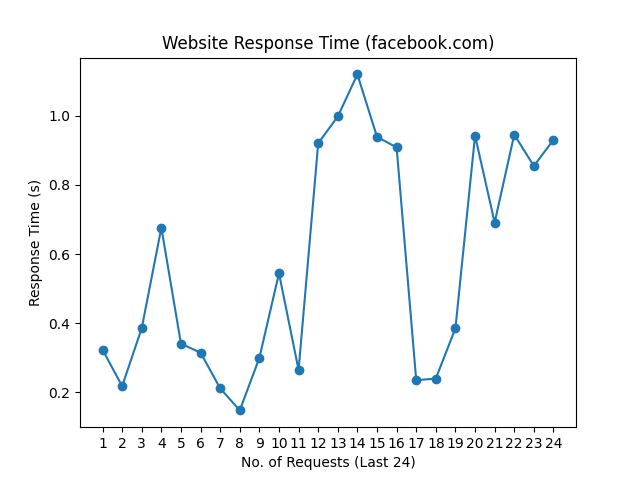
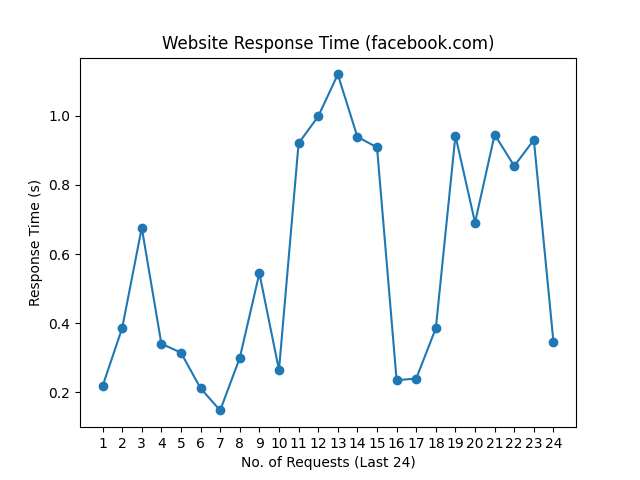
update README.md, history and graph

Changed region(s): [[0.1562, 0.125, 0.875, 0.875], [0.8438, 0.4375, 0.875, 0.7188]]

diff --git a/README.md b/README.md
@@ -1,10 +1,10 @@
 # Web Monitoring
 
-Last Checked: 20/03/2024 08:59
+Last Checked: 21/03/2024 09:01
 
 | Website | Response Time (s) | Status | Avg Uptime (%) |
 |---------|-------------------|--------|----------------|
 | www.thiswebsiteisdown.net | 0 <br> <img src="graph/thiswebsiteisdown.net.png" alt="Graph" width="200" height="200">  | ❌ Down | 0.00 |
-| www.netflix.com | 1.090170 <br> <img src="graph/netflix.com.png" alt="Graph" width="200" height="200">  | ✅ Up | 100.00 |
-| www.google.com | 0.104198 <br> <img src="graph/google.com.png" alt="Graph" width="200" height="200">  | ✅ Up | 100.00 |
-| www.facebook.com | 0.930345 <br> <img src="graph/facebook.com.png" alt="Graph" width="200" height="200">  | ✅ Up | 100.00 |
+| www.netflix.com | 0.326592 <br> <img src="graph/netflix.com.png" alt="Graph" width="200" height="200">  | ✅ Up | 100.00 |
+| www.google.com | 0.064468 <br> <img src="graph/google.com.png" alt="Graph" width="200" height="200">  | ✅ Up | 100.00 |
+| www.facebook.com | 0.345217 <br> <img src="graph/facebook.com.png" alt="Graph" width="200" height="200">  | ✅ Up | 100.00 |
